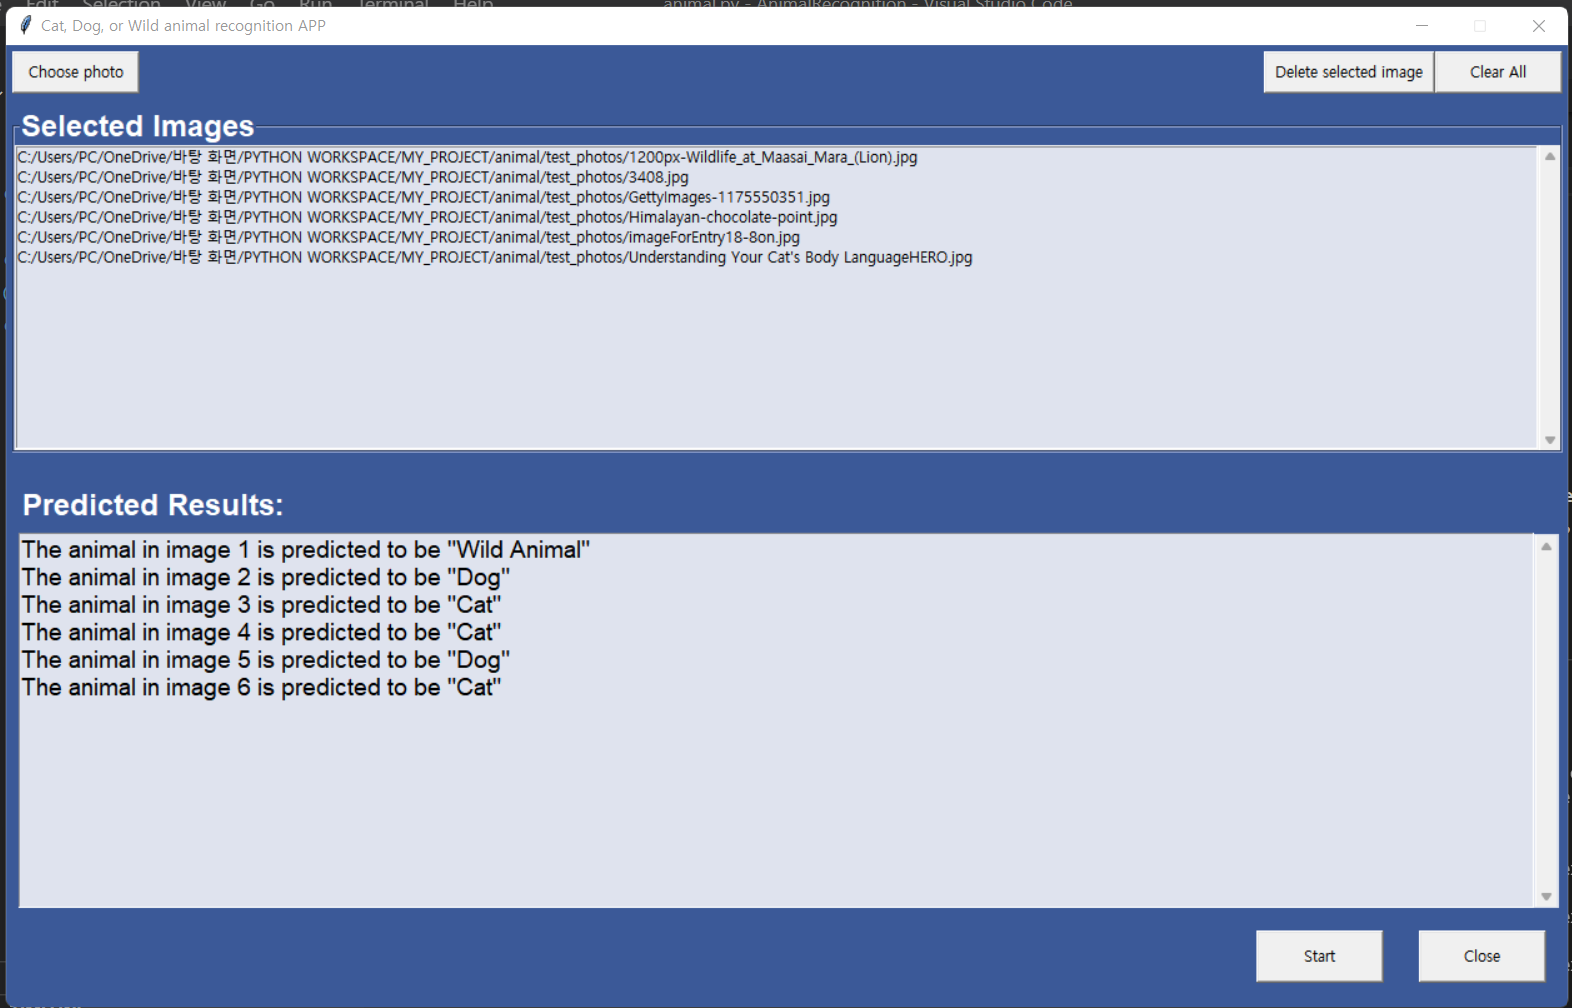
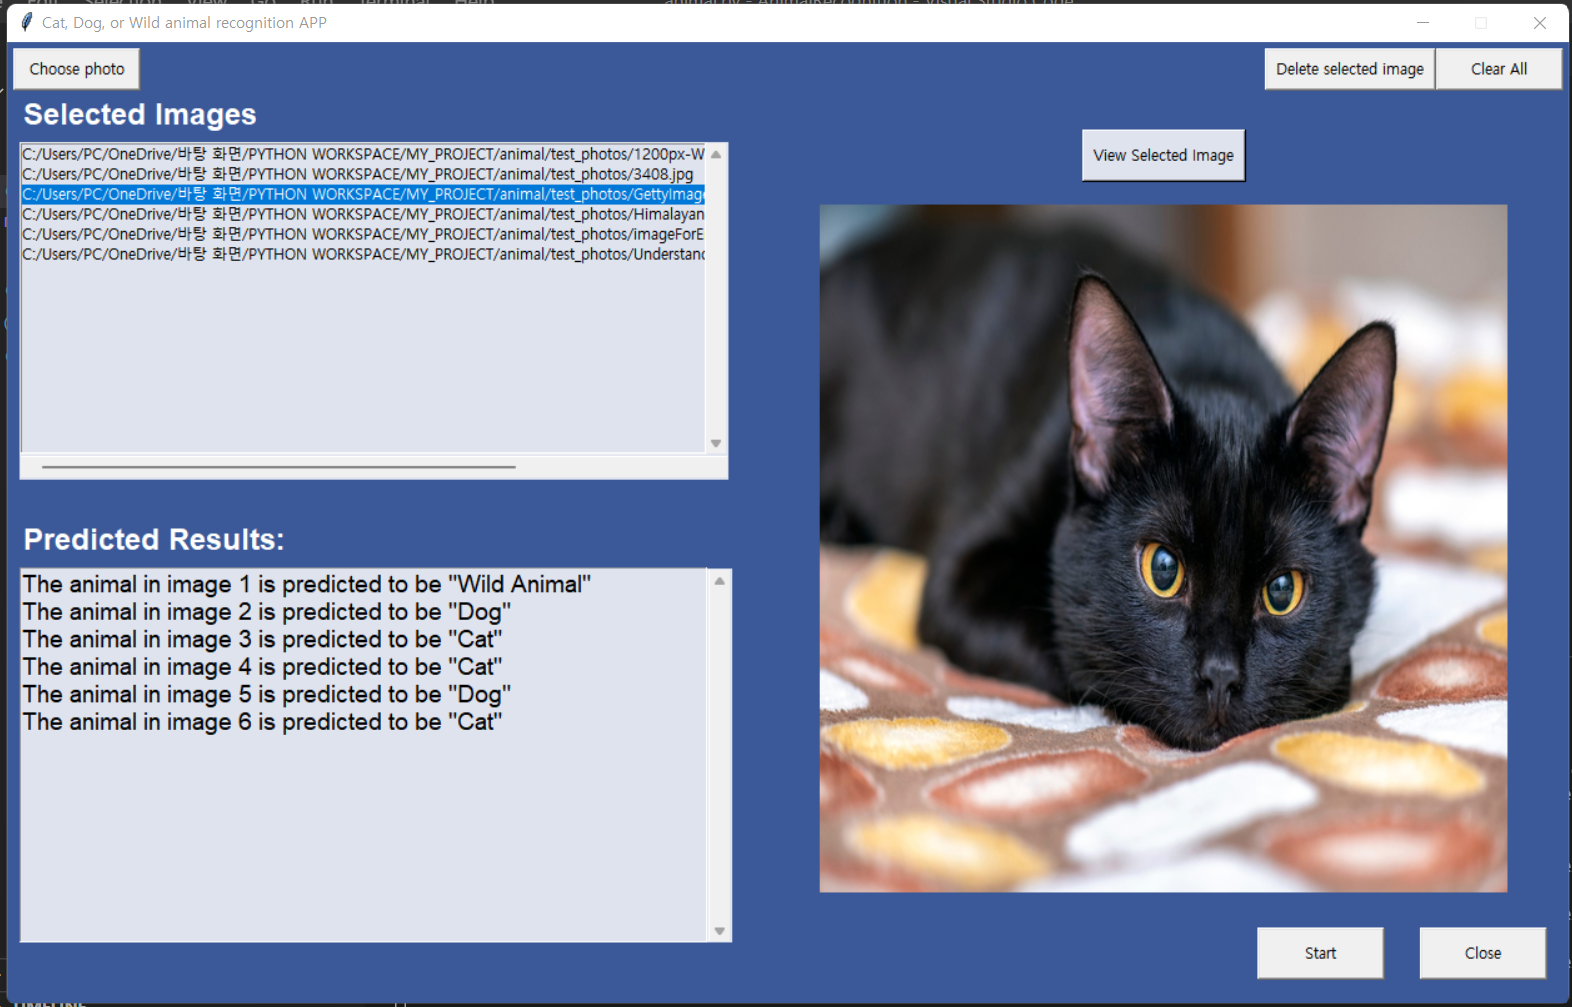
Add function that allows users to view selected image

diff --git a/animal.py b/animal.py
@@ -3,17 +3,41 @@ from tkinter import ttk
 from tkinter import filedialog
 from predict import *
 import tkinter.messagebox as msgbox
-from PIL import Image
+from PIL import ImageTk, Image
 
 root = Tk()
 root.title("Cat, Dog, or Wild animal recognition APP")
 root.geometry("1250x770+70+20")
 root.configure(bg='#3b5998')
 
+global panel
+temp_list = []
+
+# Insert photo to canvas
+def input_picture(size):
+    for i,pht in enumerate(list_file.get(0,END)):
+        temp_img = Image.open("images/predict/cat/{}.jpg".format(i))
+        temp_img = temp_img.resize((size,size), Image.ANTIALIAS)
+        img = ImageTk.PhotoImage(temp_img)
+        temp_list.append(img)       
+    panel.config(image=temp_list[0])
+    panel.pack(side = LEFT, fill = "both", expand = "yes")
+# View selected image command
+def view():
+    all_files = list_file.get(0, END)
+    image_path_ind = list_file.curselection()
+    sel_path = [all_files[item] for item in image_path_ind]
+    opened_img = Image.open(sel_path[0])
+    opened_img = opened_img.resize((550,550), Image.ANTIALIAS)
+    fin_img = ImageTk.PhotoImage(opened_img)
+    panel.config(image=fin_img)
+    panel.image = fin_img
+    panel.pack(side = LEFT, fill = "both", expand = "yes")
 # Find prediction
 def pred_photo():
     if os.path.isdir('images') is False:
         os.makedirs('images')
+    if os.path.isdir('images/predict') is False:
         os.makedirs('images/predict')
         os.makedirs('images/predict/cat')
         os.makedirs('images/predict/dog')
@@ -27,6 +51,8 @@ def pred_photo():
     pred_batches= ImageDataGenerator(preprocessing_function=tf.keras.applications.vgg16.preprocess_input) \
                 .flow_from_directory(directory=pred_path, target_size=(224,224), classes=['cat','dog','wild'], batch_size=10, shuffle=False)
     pred_result = predict_animal(pred_batches)
+    size=550
+    input_picture(size)
     for file in os.listdir(temp_path):
         if file.endswith('.jpg'):
             os.remove(os.path.join(temp_path,file))
@@ -39,12 +65,10 @@ def pred_photo():
         else:
             response = 'The animal in image {} is predicted to be "Wild Animal"'.format(p_ind+1)
         total_resp += response + '\n'
-
     result_wind.config(state=NORMAL)
     result_wind.insert(END, total_resp)
     result_wind.config(foreground='#000000',font=("Helvetica", 14))
     result_wind.config(state=DISABLED)
-
 # Add photo
 def add_photo():
     photos = filedialog.askopenfilenames(title="Please select image files", \
@@ -62,14 +86,15 @@ def clear_all():
     result_wind.config(state=NORMAL)
     result_wind.delete("1.0",END)
     result_wind.config(state=DISABLED)
-
+    panel.config(image='')
+# Start command
 def start():
     if list_file.size() == 0:
         msgbox.showwarning("Warning", "Please add photos")
         return
     pred_photo()
 
-# Photo frame
+# Top button frame
 photo_frame = Frame(root,bg='#3b5998')
 photo_frame.pack(fill='x', padx=5, pady=5)
 btn_photo_add = Button(photo_frame, padx=5, pady=5, width=12, text="Choose photo", command=add_photo)
@@ -80,27 +105,45 @@ btn_photo_del = Button(photo_frame, padx=5, pady=5, text="Delete selected image"
 btn_photo_del.pack(side='right')
 
 # List frame
-list_frame = LabelFrame(root, text="Selected Images",bg='#3b5998',fg='#ffffff',font='Helvetica 18 bold')
-list_frame.pack(fill='both', padx=5, pady=5)
-scrollbar = Scrollbar(list_frame)
-scrollbar.pack(side='right', fill='y')
-list_file = Listbox(list_frame, selectmode='extended', height=15, yscrollcommand=scrollbar.set, bg='#dfe3ee')
-list_file.pack(side='left', fill='both', expand=True)
+list_label = Label(root, text="Selected Images",bg='#3b5998',fg='#ffffff',font='Helvetica 18 bold')
+list_label.place(x=10,y=40)
+scroll_window1 = Text(root, bd=0, bg='#dfe3ee')
+scroll_window1.place(x=557,y=80,height=250,width=20)
+scroll_window2 = Text(root, bd=0, bg='#dfe3ee')
+scroll_window2.place(x=10,y=330,height=20,width=567)
+scrollbar = Scrollbar(scroll_window1)
+scrollbar.pack(side=LEFT, fill=Y)
+scrollbar1x = Scrollbar(scroll_window2, orient=HORIZONTAL)
+scrollbar1x.pack(fill=X)
+list_file = Listbox(root, selectmode='extended', height=15, yscrollcommand=scrollbar.set, bg='#dfe3ee')
+list_file.config(yscrollcommand=scrollbar.set, xscrollcommand=scrollbar1x.set)
+scrollbar1x.config(command=list_file.xview)
 scrollbar.config(command=list_file.yview)
+list_file.place(x=10,y=80, height=250, width=550)
 
 # Result frame
 label_book = Label(root,text="Predicted Results:", font='Helvetica 18 bold',bg='#3b5998',fg='#ffffff')
-label_book.place(x=10,y=350)
+label_book.place(x=10,y=380)
 result_wind = Text(root,bg='#dfe3ee',fg='#ffffff',font='Helvetica 14 bold')
 scroll_window = Text(root, bd=0, bg='#dfe3ee')
-scroll_window.place(x=1222,y=391,height=299,width=20)
+scroll_window.place(x=560,y=421,height=299,width=20)
 scrollbar2 = Scrollbar(scroll_window)
 scrollbar2.pack(side=LEFT, fill=Y)
 result_wind.config(yscrollcommand=scrollbar2.set)
 scrollbar2.config(command=result_wind.yview)
 result_wind.config(state=DISABLED)
 scroll_window.config(state=DISABLED)
-result_wind.place(x=10, y=390, height=300, width=1212)
+result_wind.place(x=10, y=420, height=300, width=550)
+
+# Canvas
+canvas = Canvas(root,bg='#dfe3ee',bd=1)
+panel = Label(canvas, bg='#dfe3ee')
+canvas.create_window(650, 150, window=panel)
+canvas.place(x=650, y=130, height=550, width=550)
+
+# View photo Button
+btn = Button(root,padx=5, pady=9,bg='#dfe3ee',text="View Selected Image",command=view)
+btn.place(x=860,y=70)
 
 # Run frame
 btn_close = Button(root, padx=5, pady=9, text="Close", width=12, command=root.quit)
